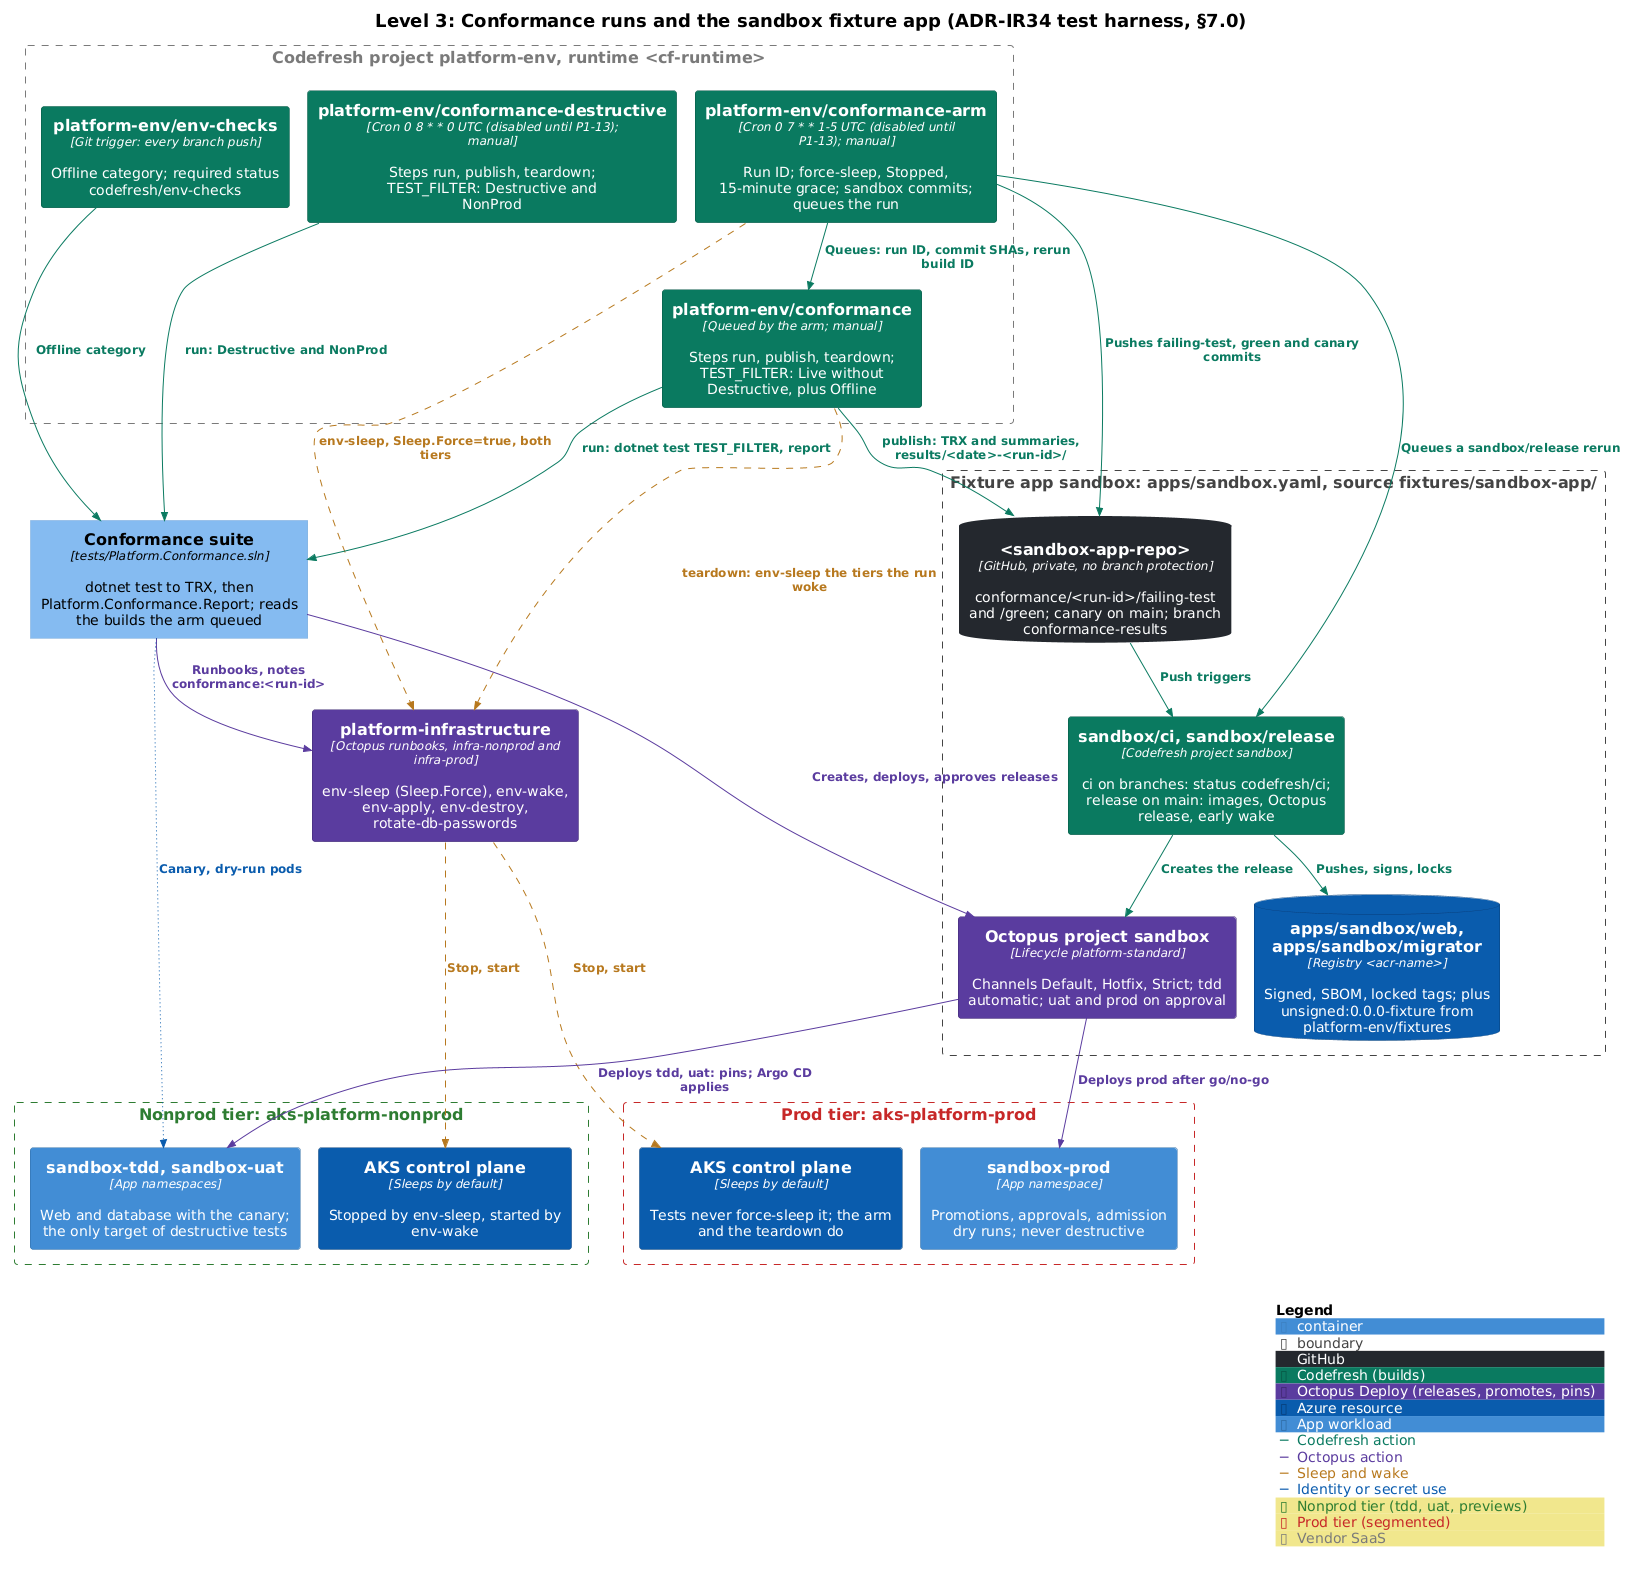
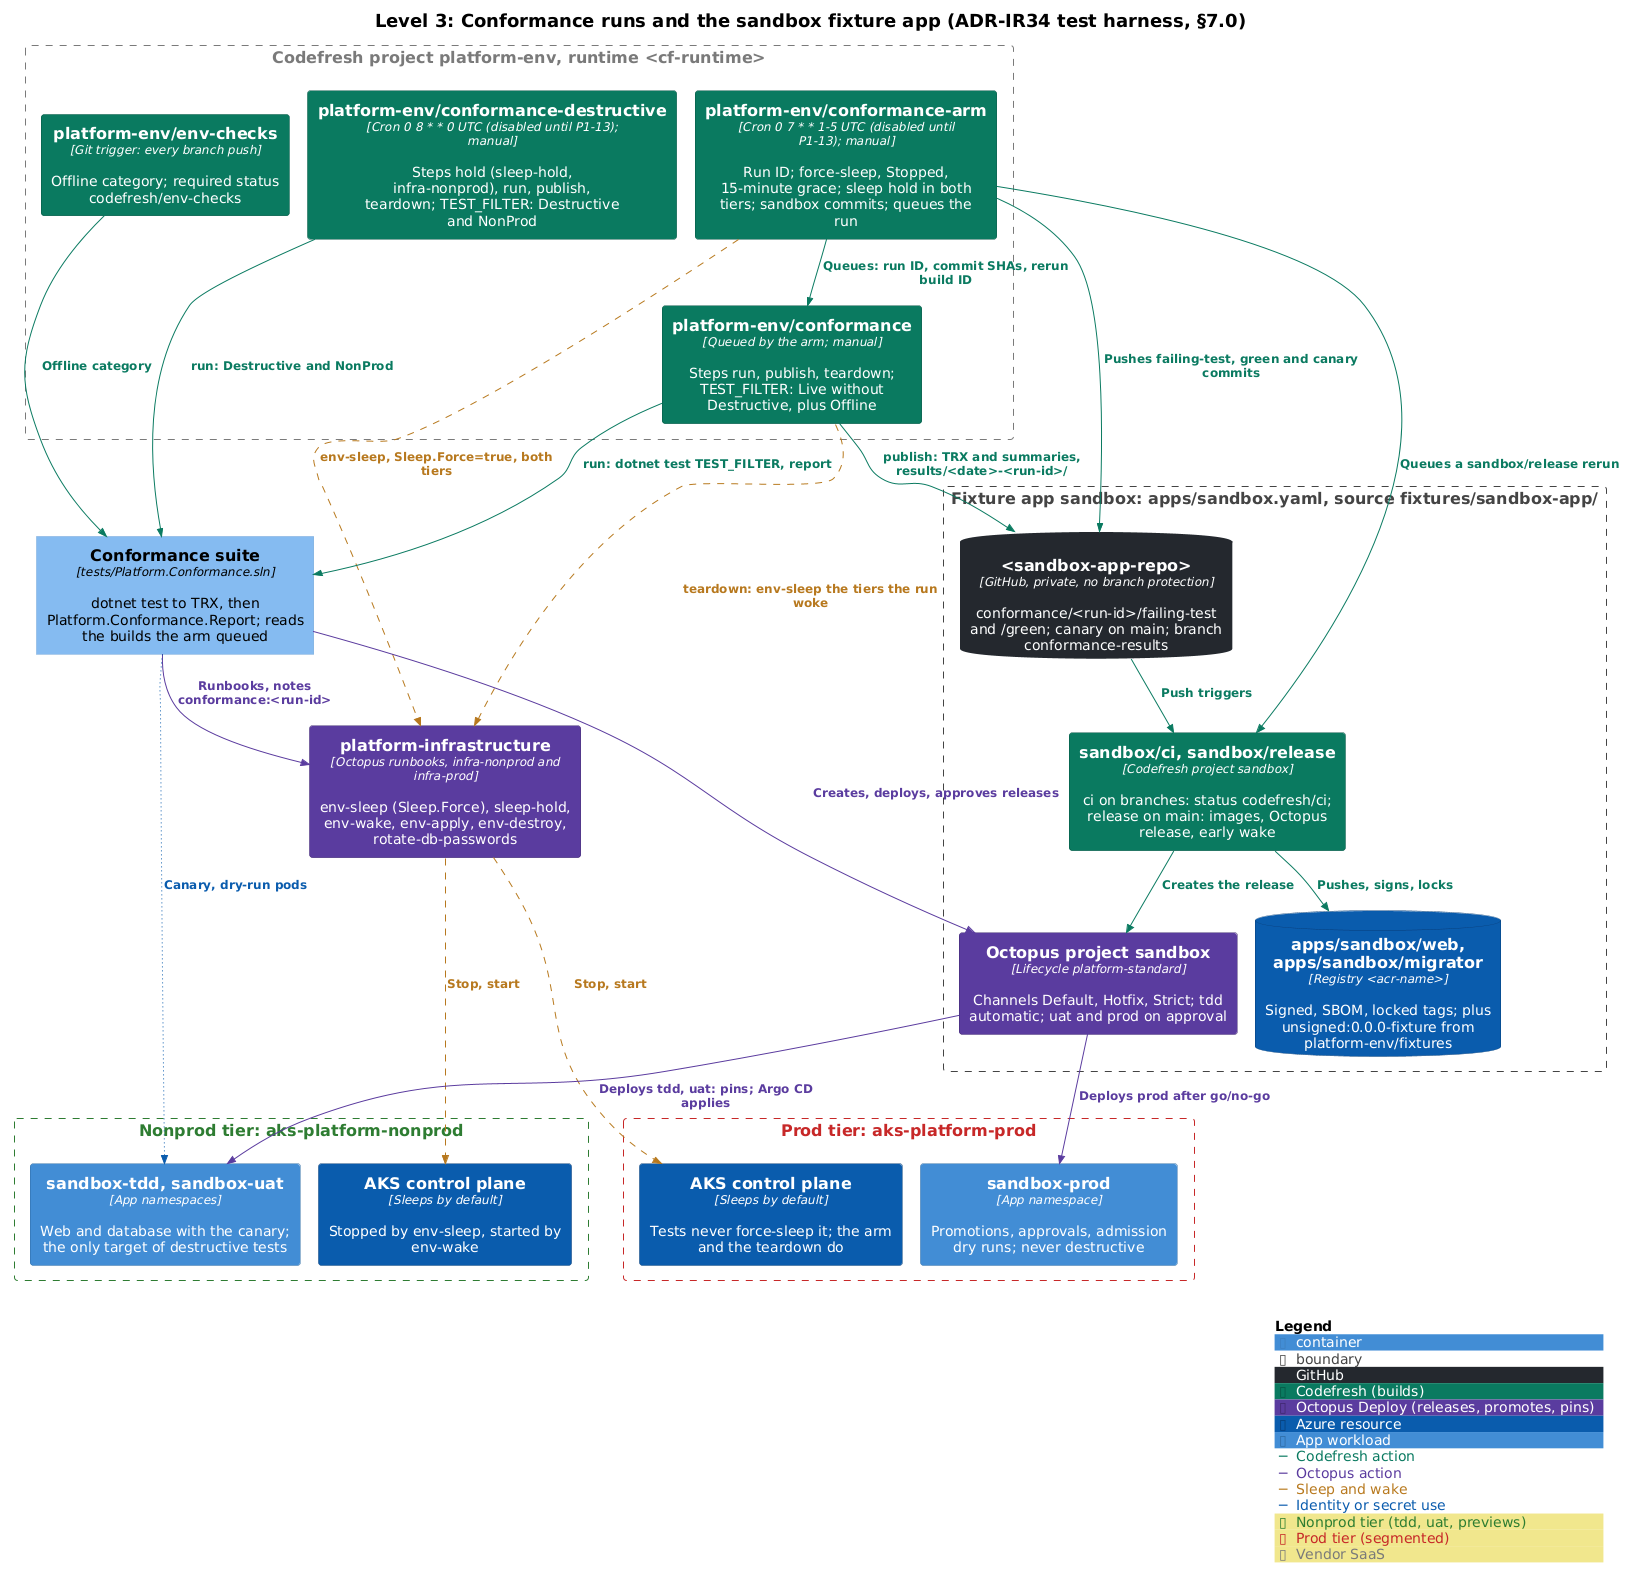
conformance-destructive: hold the hourly env-sleep of nonprod for the run
The destructive pipeline has no arm, so nothing held env-sleep during its
tests (follow-up of the sleep hold, task 32). A first step, hold, runs
runbook sleep-hold in infra-nonprod (300 minutes: the 4h suite budget and a
margin; holder conformance-destructive:<build id>) through
octopus-runbook.ps1 in one pwsh process, fails the build when it fails, and
gates the run step; the shared teardown already releases the hold. Tests
that force a sleep still stop the cluster (Sleep.Force ignores the hold).

ConformancePipelineHoldTests (CAP-OCT-009) reads the step graph; the
conformance runbook doc and c4-3-conformance-b (also the arm's hold and the
sleep-hold runbook) say so.

Claude-Session: https://claude.ai/code/session_015mU3NjPWbY7VjmWf1hnk7t

diff --git a/tests/Platform.Conformance.Offline/Codefresh/ConformancePipelineHoldTests.cs b/tests/Platform.Conformance.Offline/Codefresh/ConformancePipelineHoldTests.cs
@@ -1,0 +1,44 @@
+using Platform.Conformance.Harness;
+
+namespace Platform.Conformance.Offline.Codefresh;
+
+/// <summary>
+/// CAP-OCT-009 (the sleep hold of a conformance run): the destructive conformance pipeline, which has no arm, holds the
+/// hourly env-sleep of infra-nonprod in a step of its own before its tests, and the tests run only after that hold.
+/// Its teardown (conformance-teardown.ps1, shared with the nightly run) releases the hold.
+/// </summary>
+[TestFixture]
+[Category(Categories.Offline)]
+public class ConformancePipelineHoldTests
+{
+    private const string Pipeline = "codefresh/platform/pipelines/conformance-destructive.yml";
+
+    /// <summary>Step hold runs sleep-hold in infra-nonprod, fails the build when it fails, and gates the run step.</summary>
+    [Test]
+    [Capability("CAP-OCT-009")]
+    public void Should_ReadConformanceDestructive_HoldStep_HoldsNonprodBeforeTheTests()
+    {
+        var steps = CodefreshRepository.Steps(CodefreshRepository.Load(Pipeline)).ToDictionary(step => step.Path, StringComparer.Ordinal);
+
+        steps.ShouldContainKey("steps.hold");
+        var hold = steps["steps.hold"];
+        var command = string.Join(' ', CodefreshRepository.Strings(hold.Body.GetValueOrDefault("commands")));
+        command.ShouldContain("octopus-runbook.ps1");
+        command.ShouldContain("-Runbook sleep-hold -Environment infra-nonprod");
+        command.ShouldContain("\"Sleep.HoldMinutes=300\"");
+        command.ShouldContain("\"Sleep.HoldBy=conformance-destructive:${{CF_BUILD_ID}}\"");
+        command.ShouldContain("-WaitMinutes 10; exit $LASTEXITCODE");
+        IsTrue(hold.Body.GetValueOrDefault("strict_fail_fast")).ShouldBeTrue("a failed hold must fail the build");
+        Waits(hold).ShouldBe(["main_clone:success"]);
+        Waits(steps["steps.run"]).ShouldBe(["hold:success"], "the tests run only once the hold is set");
+        Waits(steps["steps.teardown"]).ShouldBe(["run:finished"], "the teardown, which releases the hold, runs after every run");
+    }
+
+    private static string[] Waits(PipelineStep step) =>
+        CodefreshRepository.Items(CodefreshRepository.Get(step.Body.GetValueOrDefault("when"), "steps"))
+            .SelectMany(dependency => CodefreshRepository.Strings(CodefreshRepository.Get(dependency, "on"))
+                .Select(on => $"{CodefreshRepository.Get(dependency, "name")}:{on}"))
+            .ToArray();
+
+    private static bool IsTrue(object? value) => value is true || value is string text && text.Equals("true", StringComparison.OrdinalIgnoreCase);
+}

diff --git a/docs/capabilities.md b/docs/capabilities.md
@@ -47,7 +47,7 @@ The catalogue lists 82 capabilities: 62 proven by live tests, 20 offline, 5 dest
 | CAP-OCT-006 | The prod freeze blocks deployments unless overridden with a reason | prod | live | ADR-IR34 (§7.0 prod-weekend-freeze); ADR-D5 | A temporary project freeze on sandbox in prod, deleted afterwards: the executions API refuses a deployment, and accepts it with DeploymentFreezeNames and DeploymentFreezeOverrideReason | `FreezeTests.Should_CreateDeploymentAsync_ProdFrozenWithOverrideReason_Starts`<br>`FreezeTests.Should_CreateDeploymentAsync_ProdFrozen_IsRefused` |
 | CAP-OCT-007 | Redeploying the previous release rolls back | nonprod | live | ADR-IR34 (§7.0 pins); docs/runbooks/rollback-and-forward-fix.md | The tdd pin and /version of sandbox after redeploying release N-1; release N is redeployed at teardown | `RollbackTests.Should_DeployReleaseAsync_PreviousReleaseToTdd_RestoresPreviousVersion` |
 | CAP-OCT-008 | A deployment to a stopped cluster wakes it first and succeeds | all | live | ADR-IR33; ADR-IR34 (decision 17: platform-wake) | Power state Stopped before and Running after, the platform-wake child deployment, the env-wake run of platform-infrastructure within Wake.TimeoutMinutes, and the deployment result, for tdd (nonprod force-slept) and for a prod promotion (prod stopped only by env-sleep's own rules, never forced; Inconclusive while they keep it awake). Offline, the keyed wake steps run env-wake through the REST API and wait, with the key on curl's standard input only; without a cluster, rotate-db-passwords fails and the Terraform runbooks skip the wake | `WakeBeforeUseTests.Should_RunEnvWake_PlatformWake_WakesTheTierOfTheDeployment`<br>`WakeBeforeUseTests.Should_RunEnvWake_UntrustedTarget_FailsBeforeAnyCall`<br>`WakeBeforeUseTests.Should_WakeEnvironment_ClusterExists_RunsEnvWakeAndWaits`<br>`WakeBeforeUseTests.Should_WakeEnvironment_RotateWithoutCluster_FailsTheStep`<br>`WakeBeforeUseTests.Should_WakeEnvironment_TerraformRunbookWithoutCluster_SkipsTheWake`<br>`WakeBeforeUseTests.Should_WakeEnvironment_WakeCannotComplete_FailsTheStep`<br>`WakeOnDeploymentTests.Should_DeployReleaseAsync_PromotionWhileProdSleeps_WakesAndSucceeds`<br>`WakeOnDeploymentTests.Should_DeployReleaseAsync_TddWhileNonprodSleeps_WakesAndSucceeds` |
-| CAP-OCT-009 | Clusters sleep outside working hours or when idle, never while a task runs | all | live | ADR-IR33 (env-sleep); ADR-IR34 (testability hooks Sleep.DryRun, Sleep.NowOverride) | The Sleep.Decision line of env-sleep dry runs with a simulated Monday 11:30 UTC (outside the window only in America/Chicago) and during a running deployment, and the env-sleep task logs of the last 24 hours in infra-nonprod and infra-prod: a run that slept by its own rules (not Sleep.Force) and stopped the cluster or found it stopped. Offline, every row of the decision table of step Decide sleep under stub tools, the sleep hold included (a future hold of at most 12 hours stays, Sleep.Force ignores it, a malformed or too distant one is ignored with a warning), and runbook sleep-hold setting and releasing the two hold tags of rg-platform-<tier>-aks | `EnvSleepScriptTests.Should_DecideSleep_DecisionTable_LogsOneDecisionLine`<br>`EnvSleepScriptTests.Should_DecideSleep_HoldUnreadable_FailsTheStep`<br>`EnvSleepScriptTests.Should_DecideSleep_InvalidInput_FailsTheStep`<br>`EnvSleepScriptTests.Should_ReadEnvSleep_DecideSleep_ReadsTheHoldAsTheLifecycleAccount`<br>`SleepHoldScriptTests.Should_ReadSleepHold_Runbook_RunsAsTheLifecycleAccountWithBothPrompts`<br>`SleepHoldScriptTests.Should_ReleaseHold_NoHold_ChangesNothing`<br>`SleepHoldScriptTests.Should_ReleaseHold_ZeroMinutes_DeletesOnlyTheHoldTags`<br>`SleepHoldScriptTests.Should_SetHold_AzFails_FailsTheStep`<br>`SleepHoldScriptTests.Should_SetHold_InvalidInput_FailsBeforeAnyCall`<br>`SleepHoldScriptTests.Should_SetHold_Minutes_MergesBothTagsEndingThatManyMinutesFromNow`<br>`SleepScheduleTests.Should_EnvSleepDryRun_OutsideWorkingWindow_DecidesSleep`<br>`SleepScheduleTests.Should_EnvSleepDryRun_WhileTaskRuns_StaysAwake`<br>`SleepScheduleTests.Should_TaskHistory_LastNight_EachClusterSlept` |
+| CAP-OCT-009 | Clusters sleep outside working hours or when idle, never while a task runs | all | live | ADR-IR33 (env-sleep); ADR-IR34 (testability hooks Sleep.DryRun, Sleep.NowOverride) | The Sleep.Decision line of env-sleep dry runs with a simulated Monday 11:30 UTC (outside the window only in America/Chicago) and during a running deployment, and the env-sleep task logs of the last 24 hours in infra-nonprod and infra-prod: a run that slept by its own rules (not Sleep.Force) and stopped the cluster or found it stopped. Offline, every row of the decision table of step Decide sleep under stub tools, the sleep hold included (a future hold of at most 12 hours stays, Sleep.Force ignores it, a malformed or too distant one is ignored with a warning), and runbook sleep-hold setting and releasing the two hold tags of rg-platform-<tier>-aks | `ConformancePipelineHoldTests.Should_ReadConformanceDestructive_HoldStep_HoldsNonprodBeforeTheTests`<br>`EnvSleepScriptTests.Should_DecideSleep_DecisionTable_LogsOneDecisionLine`<br>`EnvSleepScriptTests.Should_DecideSleep_HoldUnreadable_FailsTheStep`<br>`EnvSleepScriptTests.Should_DecideSleep_InvalidInput_FailsTheStep`<br>`EnvSleepScriptTests.Should_ReadEnvSleep_DecideSleep_ReadsTheHoldAsTheLifecycleAccount`<br>`SleepHoldScriptTests.Should_ReadSleepHold_Runbook_RunsAsTheLifecycleAccountWithBothPrompts`<br>`SleepHoldScriptTests.Should_ReleaseHold_NoHold_ChangesNothing`<br>`SleepHoldScriptTests.Should_ReleaseHold_ZeroMinutes_DeletesOnlyTheHoldTags`<br>`SleepHoldScriptTests.Should_SetHold_AzFails_FailsTheStep`<br>`SleepHoldScriptTests.Should_SetHold_InvalidInput_FailsBeforeAnyCall`<br>`SleepHoldScriptTests.Should_SetHold_Minutes_MergesBothTagsEndingThatManyMinutesFromNow`<br>`SleepScheduleTests.Should_EnvSleepDryRun_OutsideWorkingWindow_DecidesSleep`<br>`SleepScheduleTests.Should_EnvSleepDryRun_WhileTaskRuns_StaysAwake`<br>`SleepScheduleTests.Should_TaskHistory_LastNight_EachClusterSlept` |
 | CAP-OCT-010 | Force-sleep and force-wake work on demand | all | live | ADR-IR33 (Sleep.Force, env-wake) | AKS power state after env-sleep with Sleep.Force and after env-wake in nonprod; in prod, which tests never force-sleep, the forced env-sleep run of infra-prod that platform-env/conformance-arm made in the last 26 hours (stopped or found stopped), and the power state after env-wake from a stop made by env-sleep's own rules. Offline, the scripts of env-wake under stub tools: a stopped cluster is started once and awaited, a running one is not; step Stop cluster of env-sleep mutes the alerts, re-reads the task list, stops, and unmutes on any earlier exit | `EnvSleepScriptTests.Should_StopCluster_BusyAtRecheck_UnmutesAndKeepsRunning`<br>`EnvSleepScriptTests.Should_StopCluster_NothingToStop_ChangesNothing`<br>`EnvSleepScriptTests.Should_StopCluster_SleepDecision_MutesAlertsRechecksThenStops`<br>`EnvSleepScriptTests.Should_StopCluster_StopRejected_UnmutesAndFails`<br>`EnvWakeScriptTests.Should_StartCluster_NoRunningCluster_FailsTheWake`<br>`EnvWakeScriptTests.Should_StartCluster_Running_DisablesTheRuleWithoutAStart`<br>`EnvWakeScriptTests.Should_StartCluster_Stopped_StartsOnceAndWaitsForRunning`<br>`EnvWakeScriptTests.Should_WaitForWorkers_UnhealthyWorker_RequestsOneHealthCheck`<br>`ForceSleepWakeTests.Should_EnvSleep_ForceNonprod_StopsCluster`<br>`ForceSleepWakeTests.Should_EnvSleep_ForceProd_StopsCluster`<br>`ForceSleepWakeTests.Should_EnvWake_Nonprod_StartsCluster`<br>`ForceSleepWakeTests.Should_EnvWake_Prod_StartsCluster` |
 | CAP-OCT-011 | App runbooks wait for a sleeping cluster and fail with guidance | nonprod | live | ADR-IR33; ADR-IR34 (testability hook Wake.WaitMinutes) | Result and log of sandbox's db-restore in uat with Wake.WaitMinutes=1 while nonprod sleeps: failed, naming platform-wake and env-wake; offline, the wait guard of every in-cluster app runbook and of the db-runbooks starter under a stub curl | `RunbookWaitGuardTests.Should_WaitGuard_ClusterAsleep_FailsWithGuidance`<br>`RunbookWaitGuardTests.Should_WaitGuard_ClusterWakes_GoesOnAfterWaiting`<br>`RunbookWaitGuardTests.Should_DbRestore_ClusterAsleepWithShortWait_FailsWithGuidance` |
 | CAP-OCT-012 | A deployment writes only its own app's pins | nonprod | live | ADR-IR34 (decision 20; §6.2 bot-path audit) | Files of every environment repository commit made by a sandbox tdd deployment, and the bot-path audit (BotCommitAudit, ported from the retired tool-boundaries.sh --audit-bot-commits) over the checked-out history; offline, the fallback writer platform-pin-writer against a local repository (new tags with and without a digest, a pinned tag, a missing image, the Argo CD timeout) | `PinWriterTests.Should_AuditBotCommits_CheckedOutHistory_OnlyPinsChanged`<br>`PinWriterTests.Should_PinWriter_ArgoCdNotSynced_FailsAtTheTimeout`<br>`PinWriterTests.Should_PinWriter_ImageMissing_FailsWithoutACommit`<br>`PinWriterTests.Should_PinWriter_NewTags_CommitsOnlyTheTagsAndWaitsForArgoCd`<br>`PinWriterTests.Should_PinWriter_TagAlreadyPinned_CommitsNothingAndStillWaits`<br>`PinWriterTests.Should_ImageTagStep_SandboxTddDeployment_WritesOnlyOwnPins` |

diff --git a/docs/runbooks/conformance.md b/docs/runbooks/conformance.md
@@ -53,7 +53,7 @@ flowchart LR
 | `platform-env/env-checks` | Every push to the environment repository | `validate-all.ps1` and `dotnet test … --filter TestCategory=Offline` |
 | `platform-env/conformance-arm` | Weekdays at 07:00 UTC (01:00 or 02:00 America/Chicago; the cron ships disabled until P1-13), and manual | Records the run ID; force-sleeps both app clusters through `env-sleep` (`Sleep.Force=true`); waits until both are Stopped plus `CONFORMANCE_STOP_GRACE_MINUTES` (15); holds the hourly `env-sleep` in both tiers through runbook `sleep-hold` (`Sleep.HoldMinutes` `CONFORMANCE_HOLD_MINUTES`, default 480, at most 720; `Sleep.HoldBy` `conformance:<run-id>`), and fails when a hold is not set, because without it `env-sleep` stops a cluster between two tasks of the run; pushes the sandbox commits (a failing branch, a green branch, a release commit with the canary) and deletes the branches of older runs; queues a second `sandbox/release` build of the release commit (the rerun of CAP-CF-008), then `conformance`, which runs after the sandbox builds (one build at a time, BASIC_1) [VERIFY, Q41]. `CONFORMANCE_SKIP_SLEEP=true` skips the force-sleep (debugging), never the hold |
 | `platform-env/conformance` | Queued by the arm, and manual | `TestCategory=Live&TestCategory!=Destructive`, plus Offline. The cold start of the day is part of the proof (CAP-OCT-008) |
-| `platform-env/conformance-destructive` | Sunday at 08:00 UTC (the cron ships disabled until P1-13), and manual | `TestCategory=Destructive&TestCategory=NonProd`: rebuild of nonprod, data survival, restore, password rotation, failed migration |
+| `platform-env/conformance-destructive` | Sunday at 08:00 UTC (the cron ships disabled until P1-13), and manual | `TestCategory=Destructive&TestCategory=NonProd`: rebuild of nonprod, data survival, restore, password rotation, failed migration. It has no arm: its first step, `hold`, holds the hourly env-sleep of `infra-nonprod` for 300 minutes (runbook `sleep-hold`, holder `conformance-destructive:<build id>`), and the tests run only once the hold is set; the teardown releases it |
 
 Every pipeline takes `TEST_FILTER` to narrow a manual run, for example
 `FullyQualifiedName~Platform.Conformance.Tests.Azure` or `Capability=CAP-AZ-004` (NUnit property filter).
